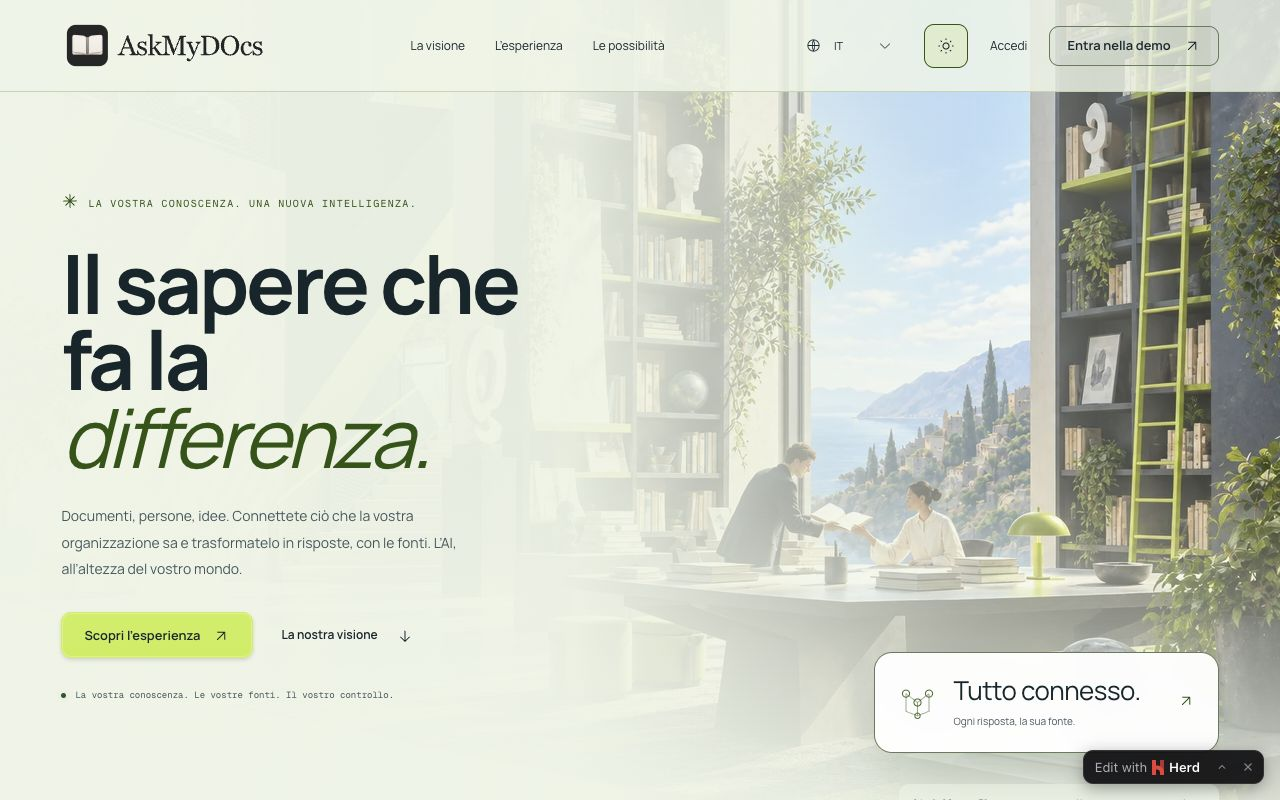
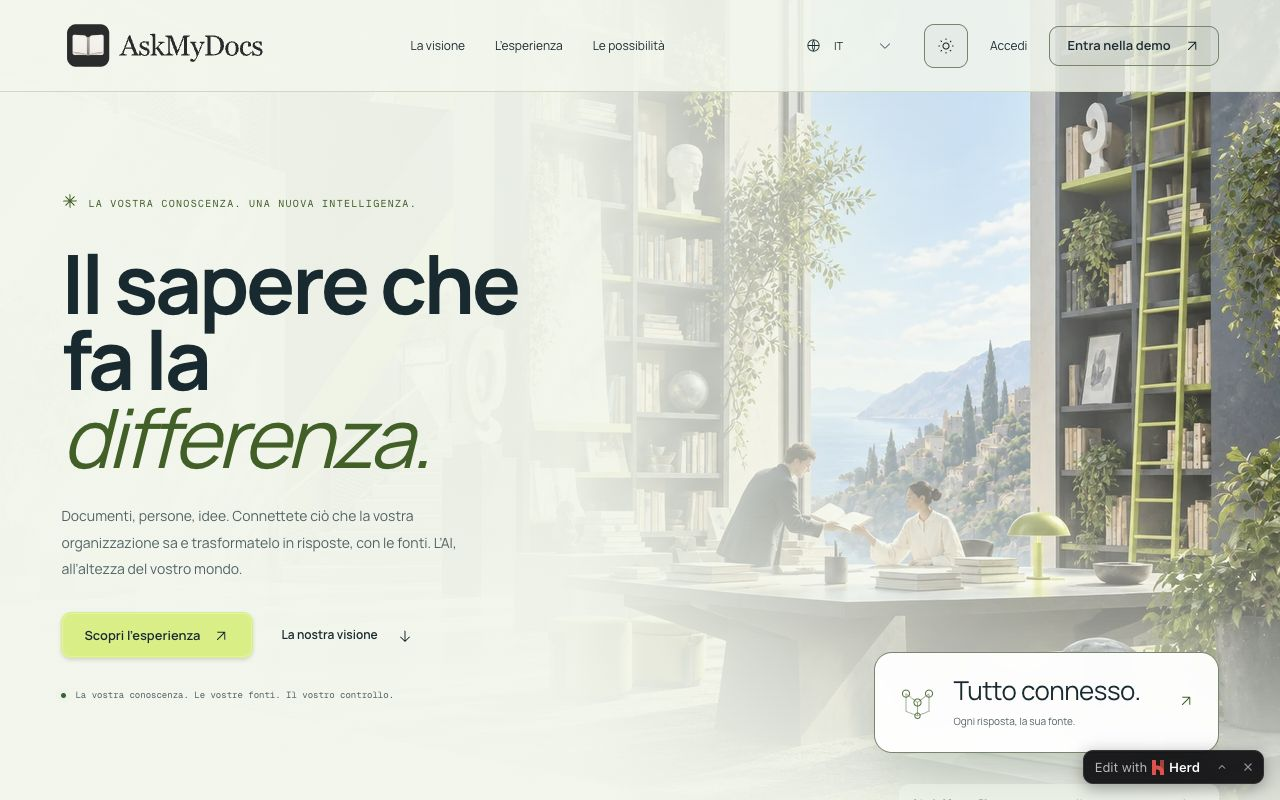
fix(branding): correct AskMyDocs wordmark capitalization

Changed region(s): [[0.0312, 0.75, 0.2188, 0.8438], [0.0625, 0.0312, 0.1875, 0.0938], [0.7188, 0.0312, 0.7812, 0.0938]]

diff --git a/frontend/src/components/BrandWordmark.tsx b/frontend/src/components/BrandWordmark.tsx
@@ -2,8 +2,8 @@ type BrandWordmarkProps = { tone?: 'auto' | 'light' | 'dark' };
 
 /** The original app mark with outlined lettering; no font download required. */
 export function BrandWordmark({ tone = 'auto' }: BrandWordmarkProps) {
-    return <span className="brand-wordmark" data-tone={tone} role="img" aria-label="AskMyDOcs">
-        <img className="brand-wordmark-light" src="/brand/askmydocs-wordmark-light.svg" width={568} height={160} alt="" aria-hidden="true" />
-        <img className="brand-wordmark-dark" src="/brand/askmydocs-wordmark-dark.svg" width={568} height={160} alt="" aria-hidden="true" />
+    return <span className="brand-wordmark" data-tone={tone} role="img" aria-label="AskMyDocs">
+        <img className="brand-wordmark-light" src="/brand/askmydocs-wordmark-light.svg" width={552} height={160} alt="" aria-hidden="true" />
+        <img className="brand-wordmark-dark" src="/brand/askmydocs-wordmark-dark.svg" width={552} height={160} alt="" aria-hidden="true" />
     </span>;
 }

diff --git a/scripts/brand/generate-wordmark.swift b/scripts/brand/generate-wordmark.swift
@@ -10,7 +10,7 @@ try FileManager.default.createDirectory(at: output, withIntermediateDirectories:
 let markData = try Data(contentsOf: input)
 let masterData = try Data(contentsOf: root.appendingPathComponent("desktop/src-tauri/icons/icon-master.png"))
 let mark = NSImage(data: masterData)!.cgImage(forProposedRect: nil, context: nil, hints: nil)!
-let text = "AskMyDOcs"
+let text = "AskMyDocs"
 let font = CTFontCreateWithName("Georgia" as CFString, 76, nil)
 let attributes: [NSAttributedString.Key: Any] = [
     NSAttributedString.Key(kCTFontAttributeName as String): font,

diff --git a/resources/views/landing.blade.php b/resources/views/landing.blade.php
@@ -29,7 +29,7 @@
   <body class="landing-page">
     <a class="skip-link" href="#main" data-i18n="skip">Vai al contenuto</a>
     <header class="header">
-      <a class="brand" href="#top" aria-label="AskMyDOcs"><span class="brand-wordmark" data-tone="auto" role="img" aria-label="AskMyDOcs"><img class="brand-wordmark-light" src="/brand/askmydocs-wordmark-light.svg" width="568" height="160" alt="" aria-hidden="true"><img class="brand-wordmark-dark" src="/brand/askmydocs-wordmark-dark.svg" width="568" height="160" alt="" aria-hidden="true"></span></a>
+      <a class="brand" href="#top" aria-label="AskMyDocs"><span class="brand-wordmark" data-tone="auto" role="img" aria-label="AskMyDocs"><img class="brand-wordmark-light" src="/brand/askmydocs-wordmark-light.svg" width="552" height="160" alt="" aria-hidden="true"><img class="brand-wordmark-dark" src="/brand/askmydocs-wordmark-dark.svg" width="552" height="160" alt="" aria-hidden="true"></span></a>
       <nav class="desktop-nav" aria-label="Navigazione principale" data-i18n-aria="navigation">
         <a href="#vision" data-i18n="nav.vision">La visione</a>
         <a href="#experience" data-i18n="nav.experience">L’esperienza</a>
@@ -258,7 +258,7 @@
     </main>
     <footer class="footer section-shell">
       <div class="footer-top">
-        <a class="brand" href="#top" aria-label="AskMyDOcs"><span class="brand-wordmark" data-tone="auto" role="img" aria-label="AskMyDOcs"><img class="brand-wordmark-light" src="/brand/askmydocs-wordmark-light.svg" width="568" height="160" alt="" aria-hidden="true"><img class="brand-wordmark-dark" src="/brand/askmydocs-wordmark-dark.svg" width="568" height="160" alt="" aria-hidden="true"></span></a>
+        <a class="brand" href="#top" aria-label="AskMyDocs"><span class="brand-wordmark" data-tone="auto" role="img" aria-label="AskMyDocs"><img class="brand-wordmark-light" src="/brand/askmydocs-wordmark-light.svg" width="552" height="160" alt="" aria-hidden="true"><img class="brand-wordmark-dark" src="/brand/askmydocs-wordmark-dark.svg" width="552" height="160" alt="" aria-hidden="true"></span></a>
         <p data-i18n="footer.tagline">Il vostro sapere. Una nuova possibilità.</p>
         <div>
           <a href="https://padosoft.mintlify.app/" target="_blank" rel="noopener noreferrer" data-i18n="footer.docs">Documentazione <svg viewBox="0 0 24 24" width="16" height="16" fill="none" stroke="currentColor" stroke-width="1.5" aria-hidden="true"><path d="M7 17 17 7M7 7h10v10"/></svg></a>

diff --git a/docs/brand/README.md b/docs/brand/README.md
@@ -1,7 +1,7 @@
 # Website wordmark
 
 The horizontal lockup pairs the existing neutral app icon with the exact
-requested lettering **AskMyDOcs**. The symbol artwork is unchanged; Georgia
+correct product lettering **AskMyDocs**. The symbol artwork is unchanged; Georgia
 lettering is converted to vector paths so no font must be installed or fetched
 when displaying the exports.
 
@@ -11,13 +11,13 @@ when displaying the exports.
 | --- | --- |
 | `askmydocs-wordmark-light.svg` | Graphite lettering on light backgrounds |
 | `askmydocs-wordmark-dark.svg` | Ivory lettering on dark backgrounds |
-| `askmydocs-wordmark-light.png` | Transparent 2272×640 export for light backgrounds |
-| `askmydocs-wordmark-dark.png` | Transparent 2272×640 export for dark backgrounds |
+| `askmydocs-wordmark-light.png` | Transparent 2208×640 export for light backgrounds |
+| `askmydocs-wordmark-dark.png` | Transparent 2208×640 export for dark backgrounds |
 | `askmydocs-mark.png` | Original app symbol, 256×256 |
 | `favicon.png` | Small 32×32 site icon |
 | `wordmark.css` | Shared theme selection and responsive sizing |
 
-SVGs have a 568×160 viewBox, outlined lettering and an embedded 256px bitmap
+SVGs have a 552×160 viewBox, outlined lettering and an embedded 256px bitmap
 of the app icon. They are self-contained compositions, not fully vector
 redrawings of the raster artwork. High-resolution PNG exports use the original
 1024px app master. The light/dark comparison is `wordmark-preview.png`.
@@ -30,8 +30,8 @@ redrawings of the raster artwork. High-resolution PNG exports use the original
   and sidebar follow the selected light/dark theme.
 - Both Blade shells load the shared CSS and updated favicon. Existing SVG
   logo/favicon aliases also use the app symbol.
-- Product copy and document content retain their existing spelling; the
-  requested capitalization applies to this logo only.
+- The wordmark uses the canonical product spelling **AskMyDocs**, matching
+  the website and app.
 
 Regenerate on macOS from the repository root:
 
